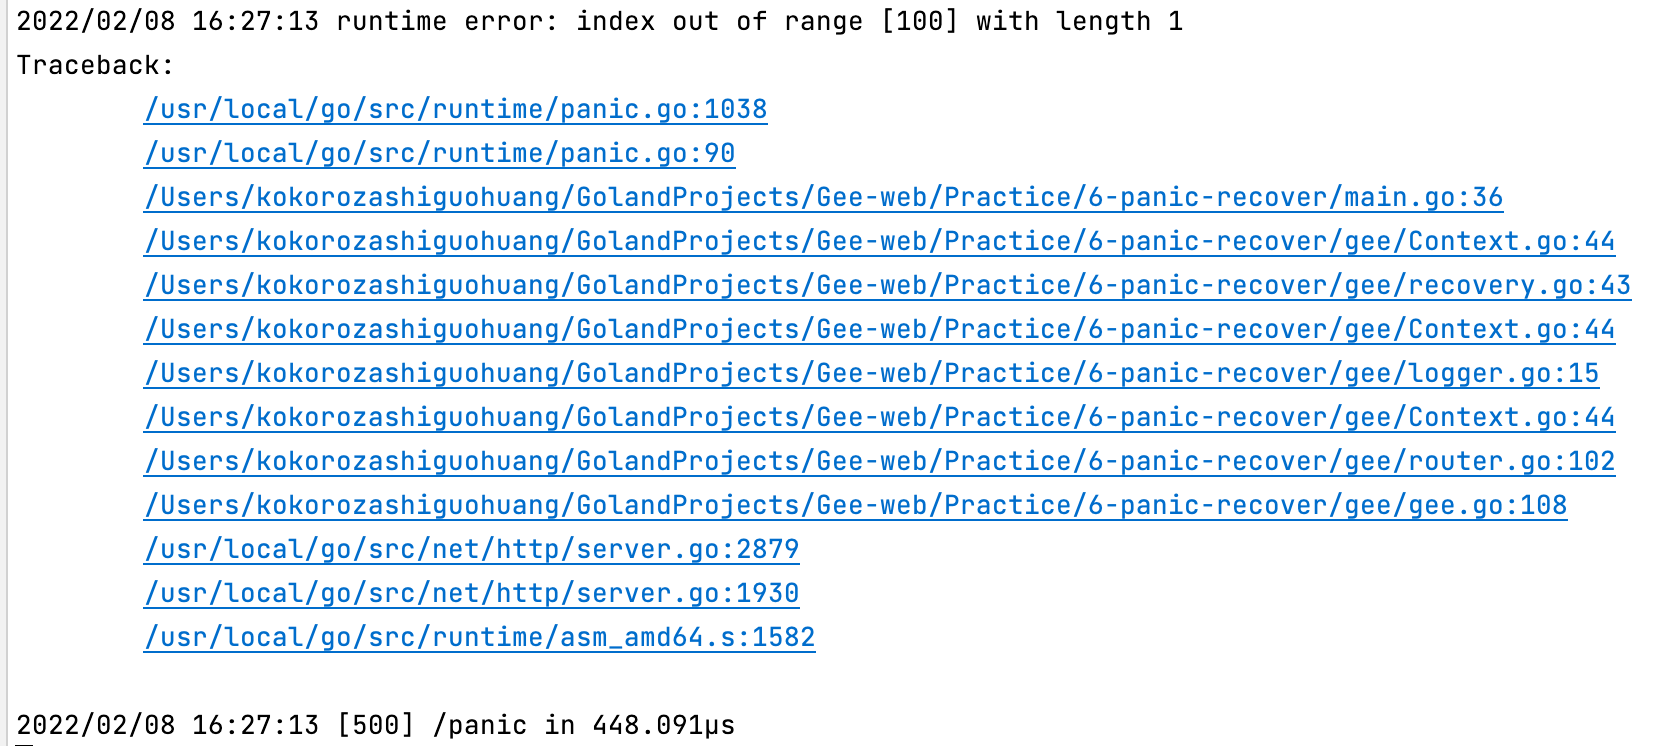
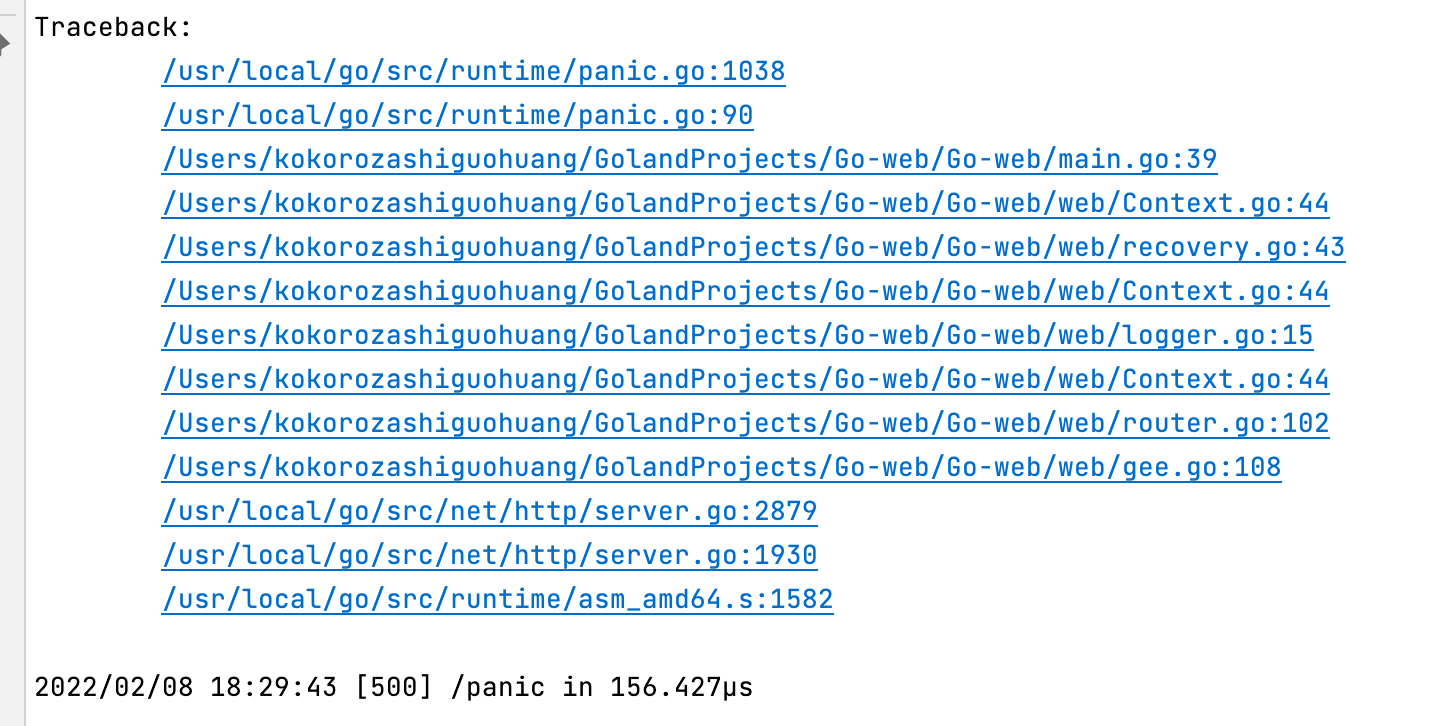
feat - complete update

Changed region(s): [[0.0, 0.0, 0.9791, 0.8788], [0.0, 0.9091, 0.5202, 1.0]]

diff --git a/Practice/6-panic-recover/main.go b/Practice/6-panic-recover/main.go
@@ -10,14 +10,14 @@ import (
 Traceback:
         /usr/local/go/src/runtime/panic.go:1038
         /usr/local/go/src/runtime/panic.go:90
-        /Users/kokorozashiguohuang/GolandProjects/Gee-web/Practice/6-panic-recover/main.go:16
-        /Users/kokorozashiguohuang/GolandProjects/Gee-web/Practice/6-panic-recover/gee/Context.go:44
-        /Users/kokorozashiguohuang/GolandProjects/Gee-web/Practice/6-panic-recover/gee/recovery.go:37
-        /Users/kokorozashiguohuang/GolandProjects/Gee-web/Practice/6-panic-recover/gee/Context.go:44
-        /Users/kokorozashiguohuang/GolandProjects/Gee-web/Practice/6-panic-recover/gee/logger.go:15
-        /Users/kokorozashiguohuang/GolandProjects/Gee-web/Practice/6-panic-recover/gee/Context.go:44
-        /Users/kokorozashiguohuang/GolandProjects/Gee-web/Practice/6-panic-recover/gee/router.go:102
-        /Users/kokorozashiguohuang/GolandProjects/Gee-web/Practice/6-panic-recover/gee/gee.go:107
+        /Users/kokorozashiguohuang/GolandProjects/Go-web/Practice/6-panic-recover/main.go:16
+        /Users/kokorozashiguohuang/GolandProjects/Go-web/Practice/6-panic-recover/gee/Context.go:44
+        /Users/kokorozashiguohuang/GolandProjects/Go-web/Practice/6-panic-recover/gee/recovery.go:37
+        /Users/kokorozashiguohuang/GolandProjects/Go-web/Practice/6-panic-recover/gee/Context.go:44
+        /Users/kokorozashiguohuang/GolandProjects/Go-web/Practice/6-panic-recover/gee/logger.go:15
+        /Users/kokorozashiguohuang/GolandProjects/Go-web/Practice/6-panic-recover/gee/Context.go:44
+        /Users/kokorozashiguohuang/GolandProjects/Go-web/Practice/6-panic-recover/gee/router.go:102
+        /Users/kokorozashiguohuang/GolandProjects/Go-web/Practice/6-panic-recover/gee/gee.go:107
         /usr/local/go/src/net/http/server.go:2879
         /usr/local/go/src/net/http/server.go:1930
         /usr/local/go/src/runtime/asm_amd64.s:1582

diff --git a/Practice/5-middleware/main.go b/Practice/5-middleware/main.go
@@ -8,11 +8,11 @@ import (
 	"gee"
 )
 
-func onlyForApi1() gee.HandlerFunc {
+func specialMiddleware() gee.HandlerFunc {
 	return func(c *gee.Context) {
 		t := time.Now()
 		c.Fail(500, "Internal Server Error")
-		log.Printf("[%d] %s in %v for group api1", c.StatusCode, c.Req.RequestURI, time.Since(t))
+		log.Printf("[%d] %s in %v for SpecialMiddleware", c.StatusCode, c.Req.RequestURI, time.Since(t))
 	}
 }
 
@@ -25,9 +25,9 @@ func main() {
 	})
 
 	// 定义路由分组 /api1 下的单独中间件
-	// 此时 /api1 下有两个中间件, 一个Logger, 一个onlyForApi1
-	api1 := r.Group("")
-	api1.Use(onlyForApi1())
+	// 此时 /api1 下有两个中间件, 一个Logger, 一个specialMiddleware
+	api1 := r.Group("/api/special")
+	api1.Use(specialMiddleware())
 	{
 		api1.GET("/hello/:name", func(c *gee.Context) {
 			// expect /hello/zzguo
